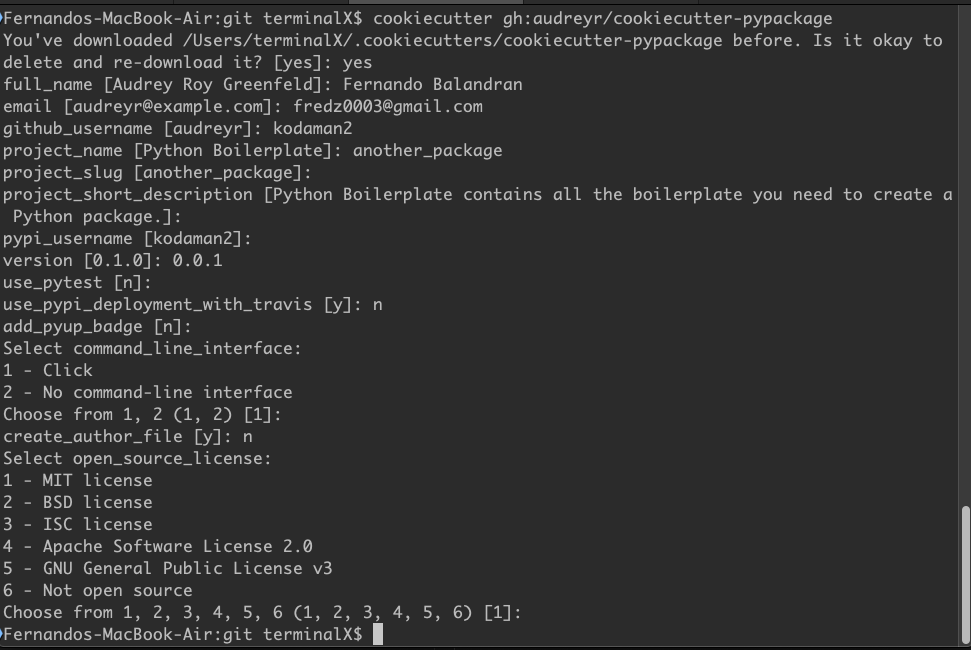
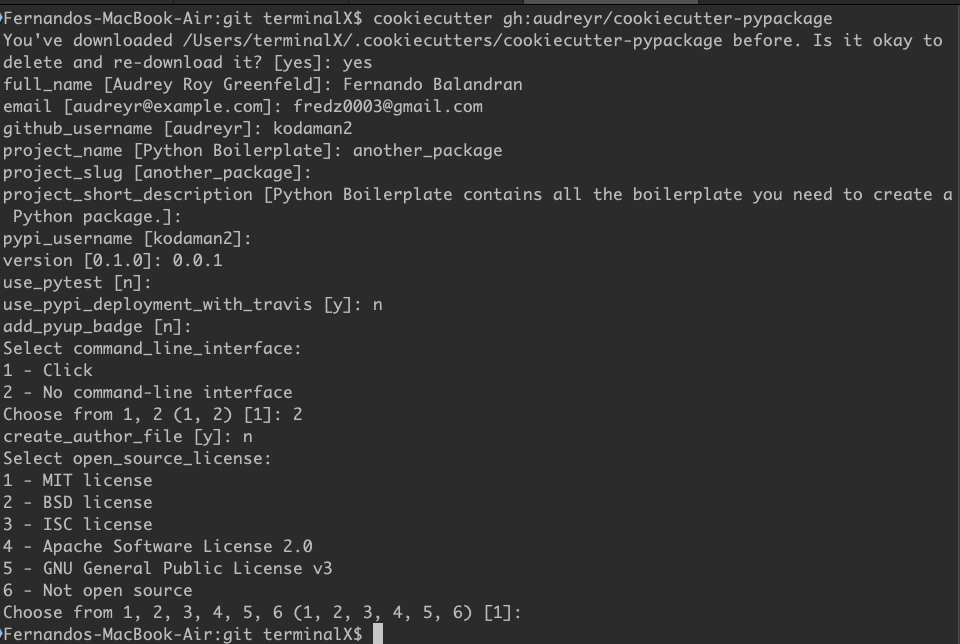
new post

Changed region(s): [[0.0, 0.0, 1.0, 1.0]]

diff --git a/_posts/2019-7-16-Another-Package-With-Cookiecutter.md b/_posts/2019-7-16-Another-Package-With-Cookiecutter.md
@@ -26,9 +26,83 @@ Since github is the defacto for repositories you can also run:
 ```
 cookiecutter gh:audreyr/cookiecutter-pypackage
 ```
-
+`Note: Make sure to say n for cli`
 ![prompts](https://kodaman2.github.io/blog/images/python-package-series/cookiecutter-prompts.png)
 
 All set and done:
 
 ![contents](https://kodaman2.github.io/blog/images/python-package-series/package-contents.png)
+
+In less than a minute a whole project was created with all necessary files for a python package.
+
+## Adding a Function to Test the Package
+
+I use vscode, so inside the main package directory run, to bring up the project in vscode:
+
+```
+code .
+```
+
+We'll reuse our hello_world function to make sure things work before getting ahead of ourselves, delete the main module comment:
+
+```python
+# -*- coding: utf-8 -*-
+
+"""Main module."""
+def say_hello(name):
+    print("hello %s" % (name))
+```
+
+## Installing the Package
+
+Installing with dev argument same as before:
+
+```
+python3 setup.py develop
+```
+
+## Testing say_hello function
+
+At this point we can test our function. Launch python3 in the terminal or launch idle.
+
+```
+>>> from another_package import *
+>>> say_hello("fer")
+```
+
+Won't run huh? We forgot to do one thing, and that is to add our python module to the init file. The reason it fails is that it doesn't know what functions to include in the package.
+
+## Adding a py module to init
+
+Open \__init__\.py inside the package folder, and right below the version insert the below line `(note the dot before the module name)`:
+
+```
+from .another_package import *
+```
+
+Here we tell init to import all our functions.
+
+## Test 2
+
+```
+>>> from another_package import *
+>>> say_hello("fer")
+hello fer
+```
+
+Just as seen in the previous post we've built a package, but much faster and will avoid mistakes like adding a readme file or license. 
+
+## A word on cookiecutter
+
+If you have a project that needs certain structure you can do another template. I usually just do python utilities and use the python template. If you need a specific template that doesn't exist already, make sure to read the docs.
+
+## Next Article
+
+We have a working package, but it doesn't have any functionality at the moment. In the next post we'll add some functionality to run like a script from bash or cmd prompt. We will also learn how to use arguments with the argparse module. More fun to come, stay tuned!
+
+For example:
+
+```
+say_hello -n "fer" -l "balandran"
+output: hello fer balandran
+```
